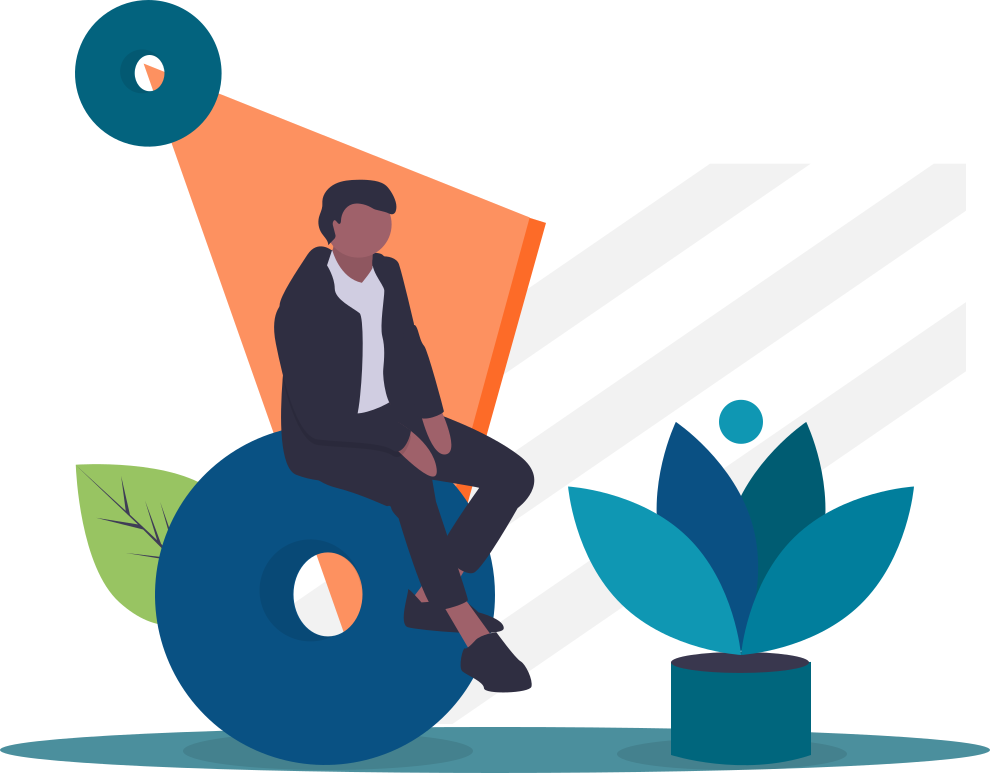
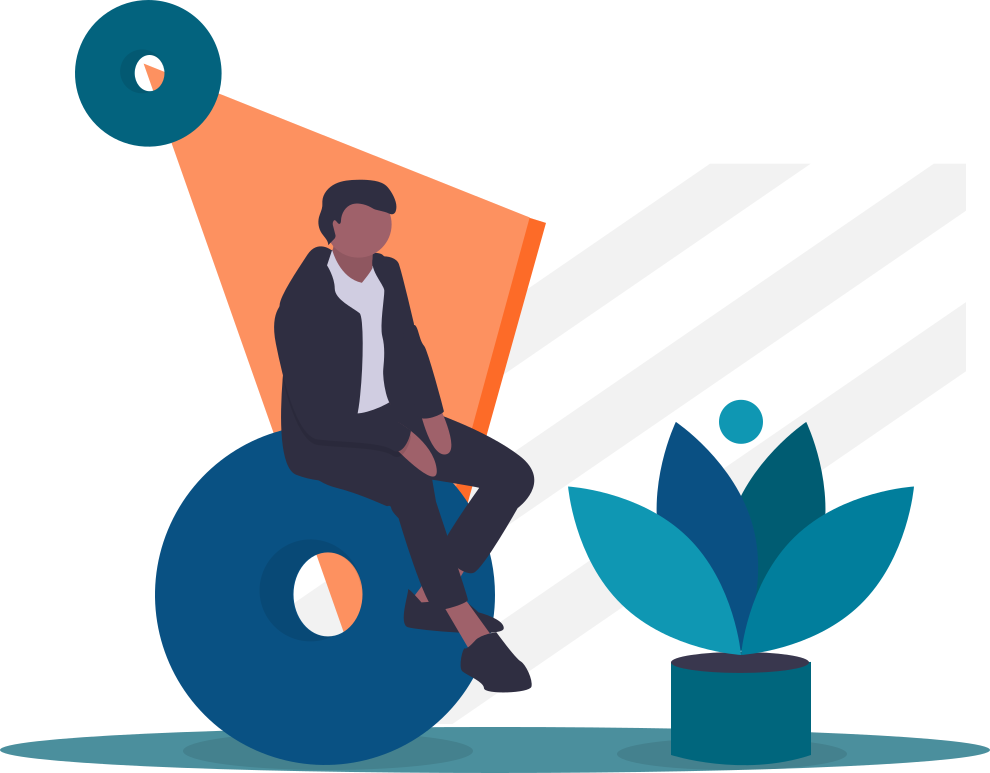
Image fix opacity

Changed region(s): [[0.0606, 0.5899, 0.2121, 0.8072]]

diff --git a/lib/Home_Package/PLans_Home/Plans_Home_Page.dart b/lib/Home_Package/PLans_Home/Plans_Home_Page.dart
@@ -127,13 +127,16 @@ class _PlansHomePageState extends State<PlansHomePage> {
                         child: Column(
                           mainAxisAlignment: MainAxisAlignment.center,
                           children: [
-                            Container(
-                              height: height * 0.4,
-                              width: width * 0.9,
-                              decoration: BoxDecoration(
-                                image: DecorationImage(
-                                  image: AssetImage('images/NoPlan.png'),
-                                  fit: BoxFit.contain,
+                            Opacity(
+                              opacity: 0.85,
+                              child: Container(
+                                height: height * 0.4,
+                                width: width * 0.9,
+                                decoration: BoxDecoration(
+                                  image: DecorationImage(
+                                    image: AssetImage('images/NoPlan.png'),
+                                    fit: BoxFit.contain,
+                                  ),
                                 ),
                               ),
                             ),
